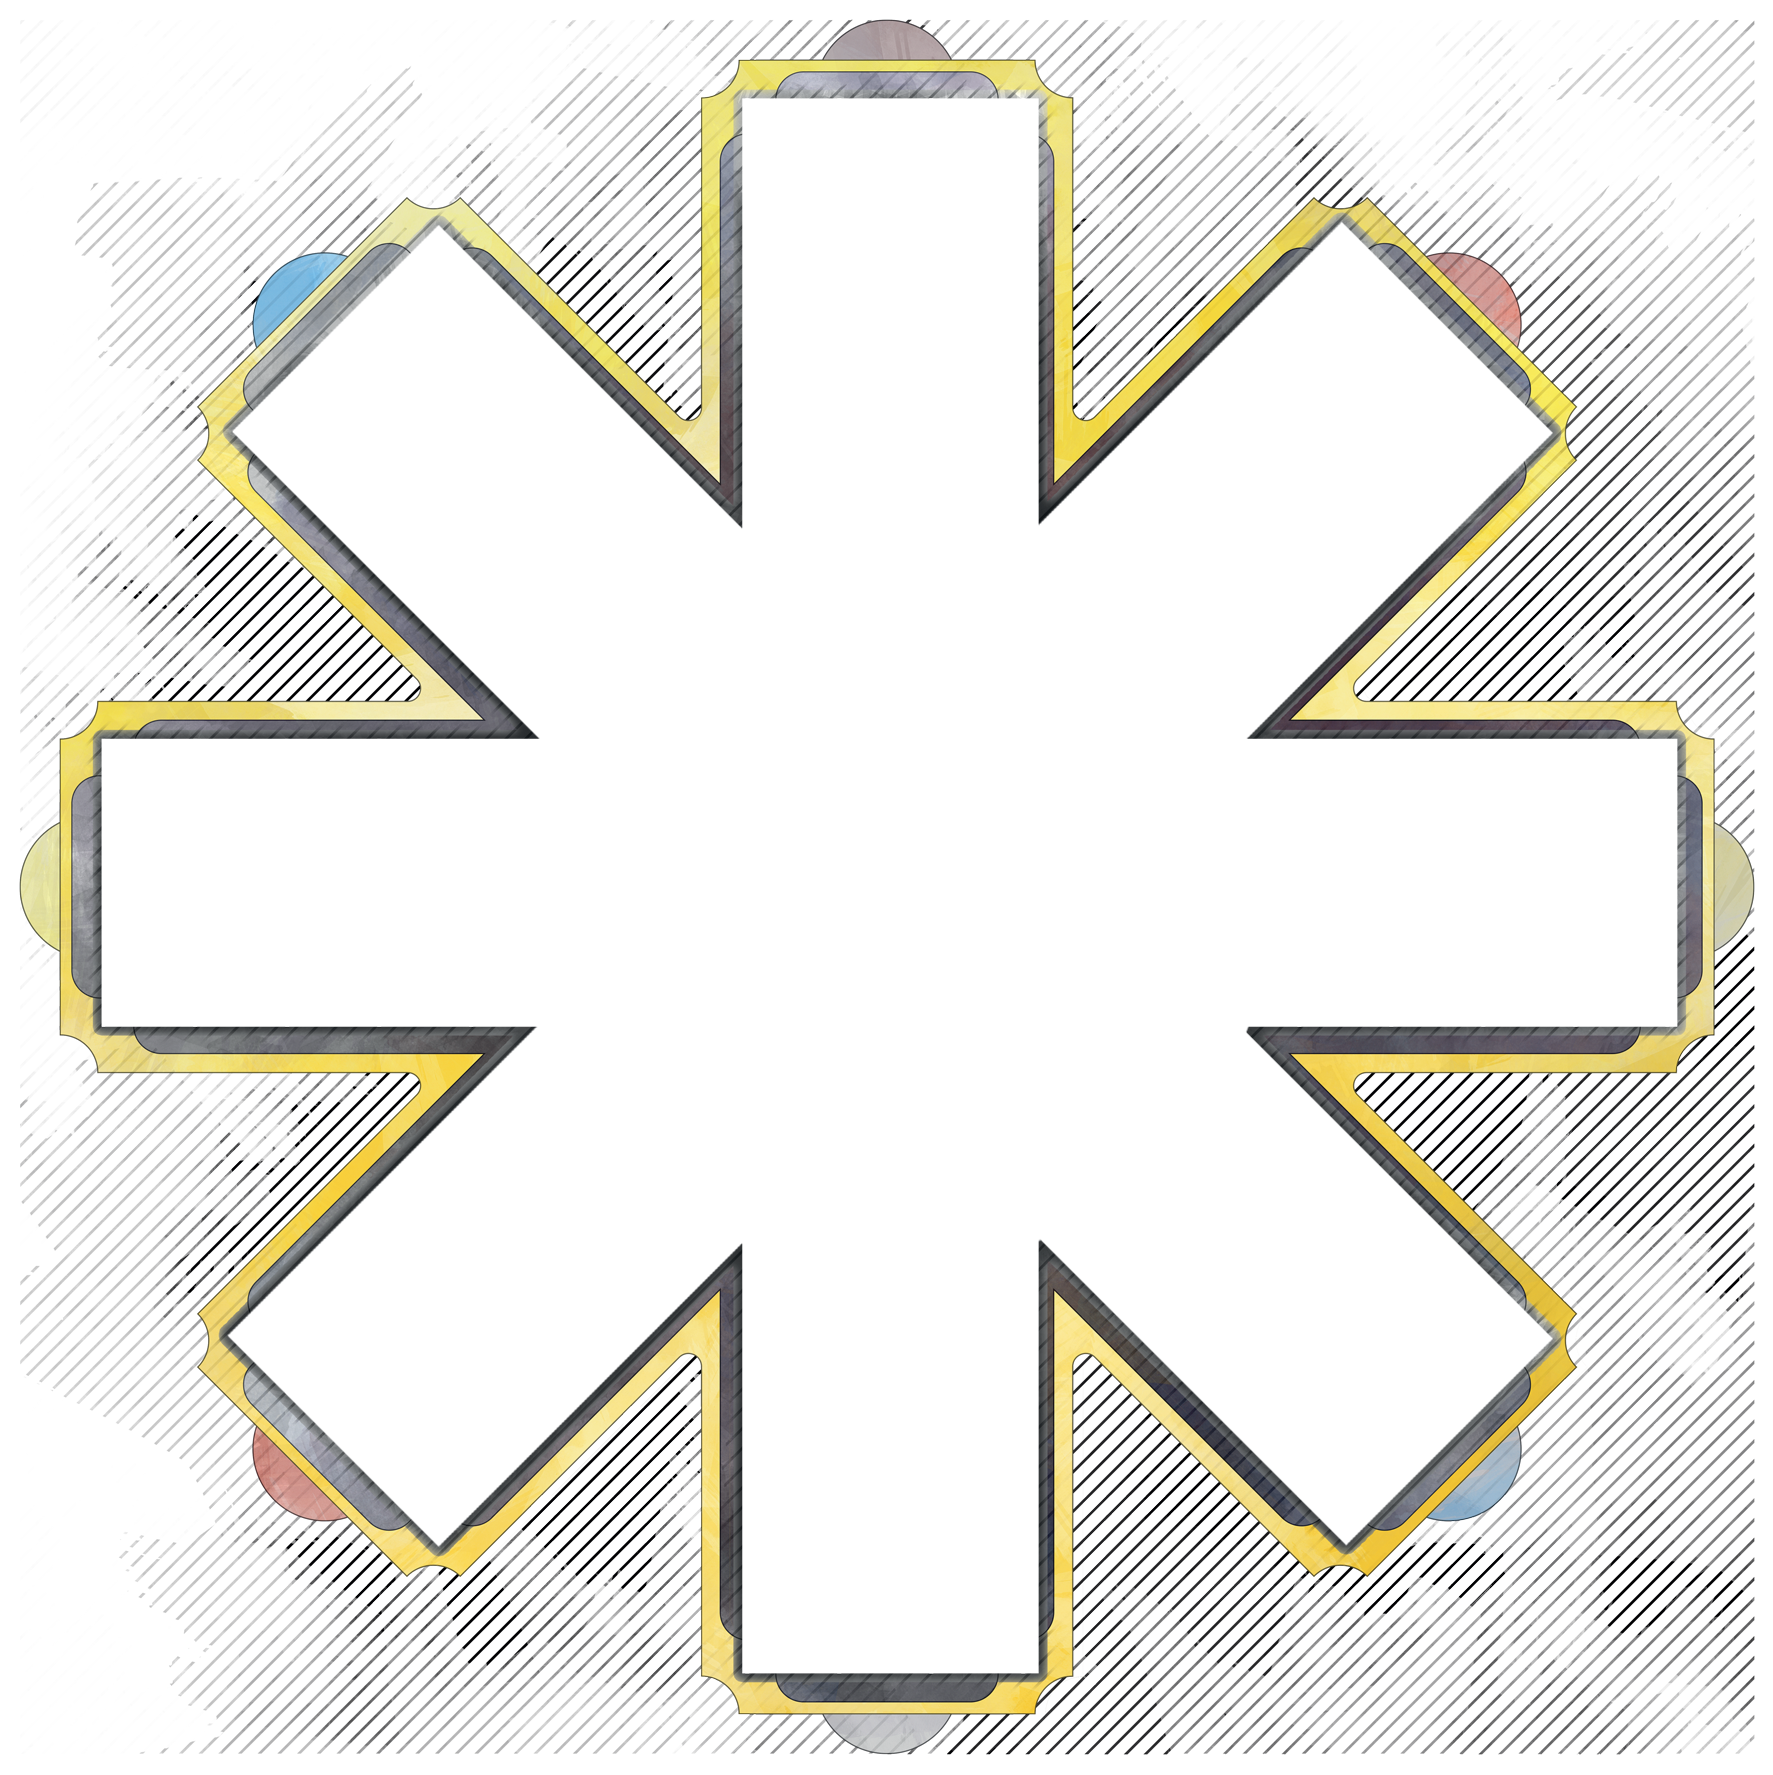
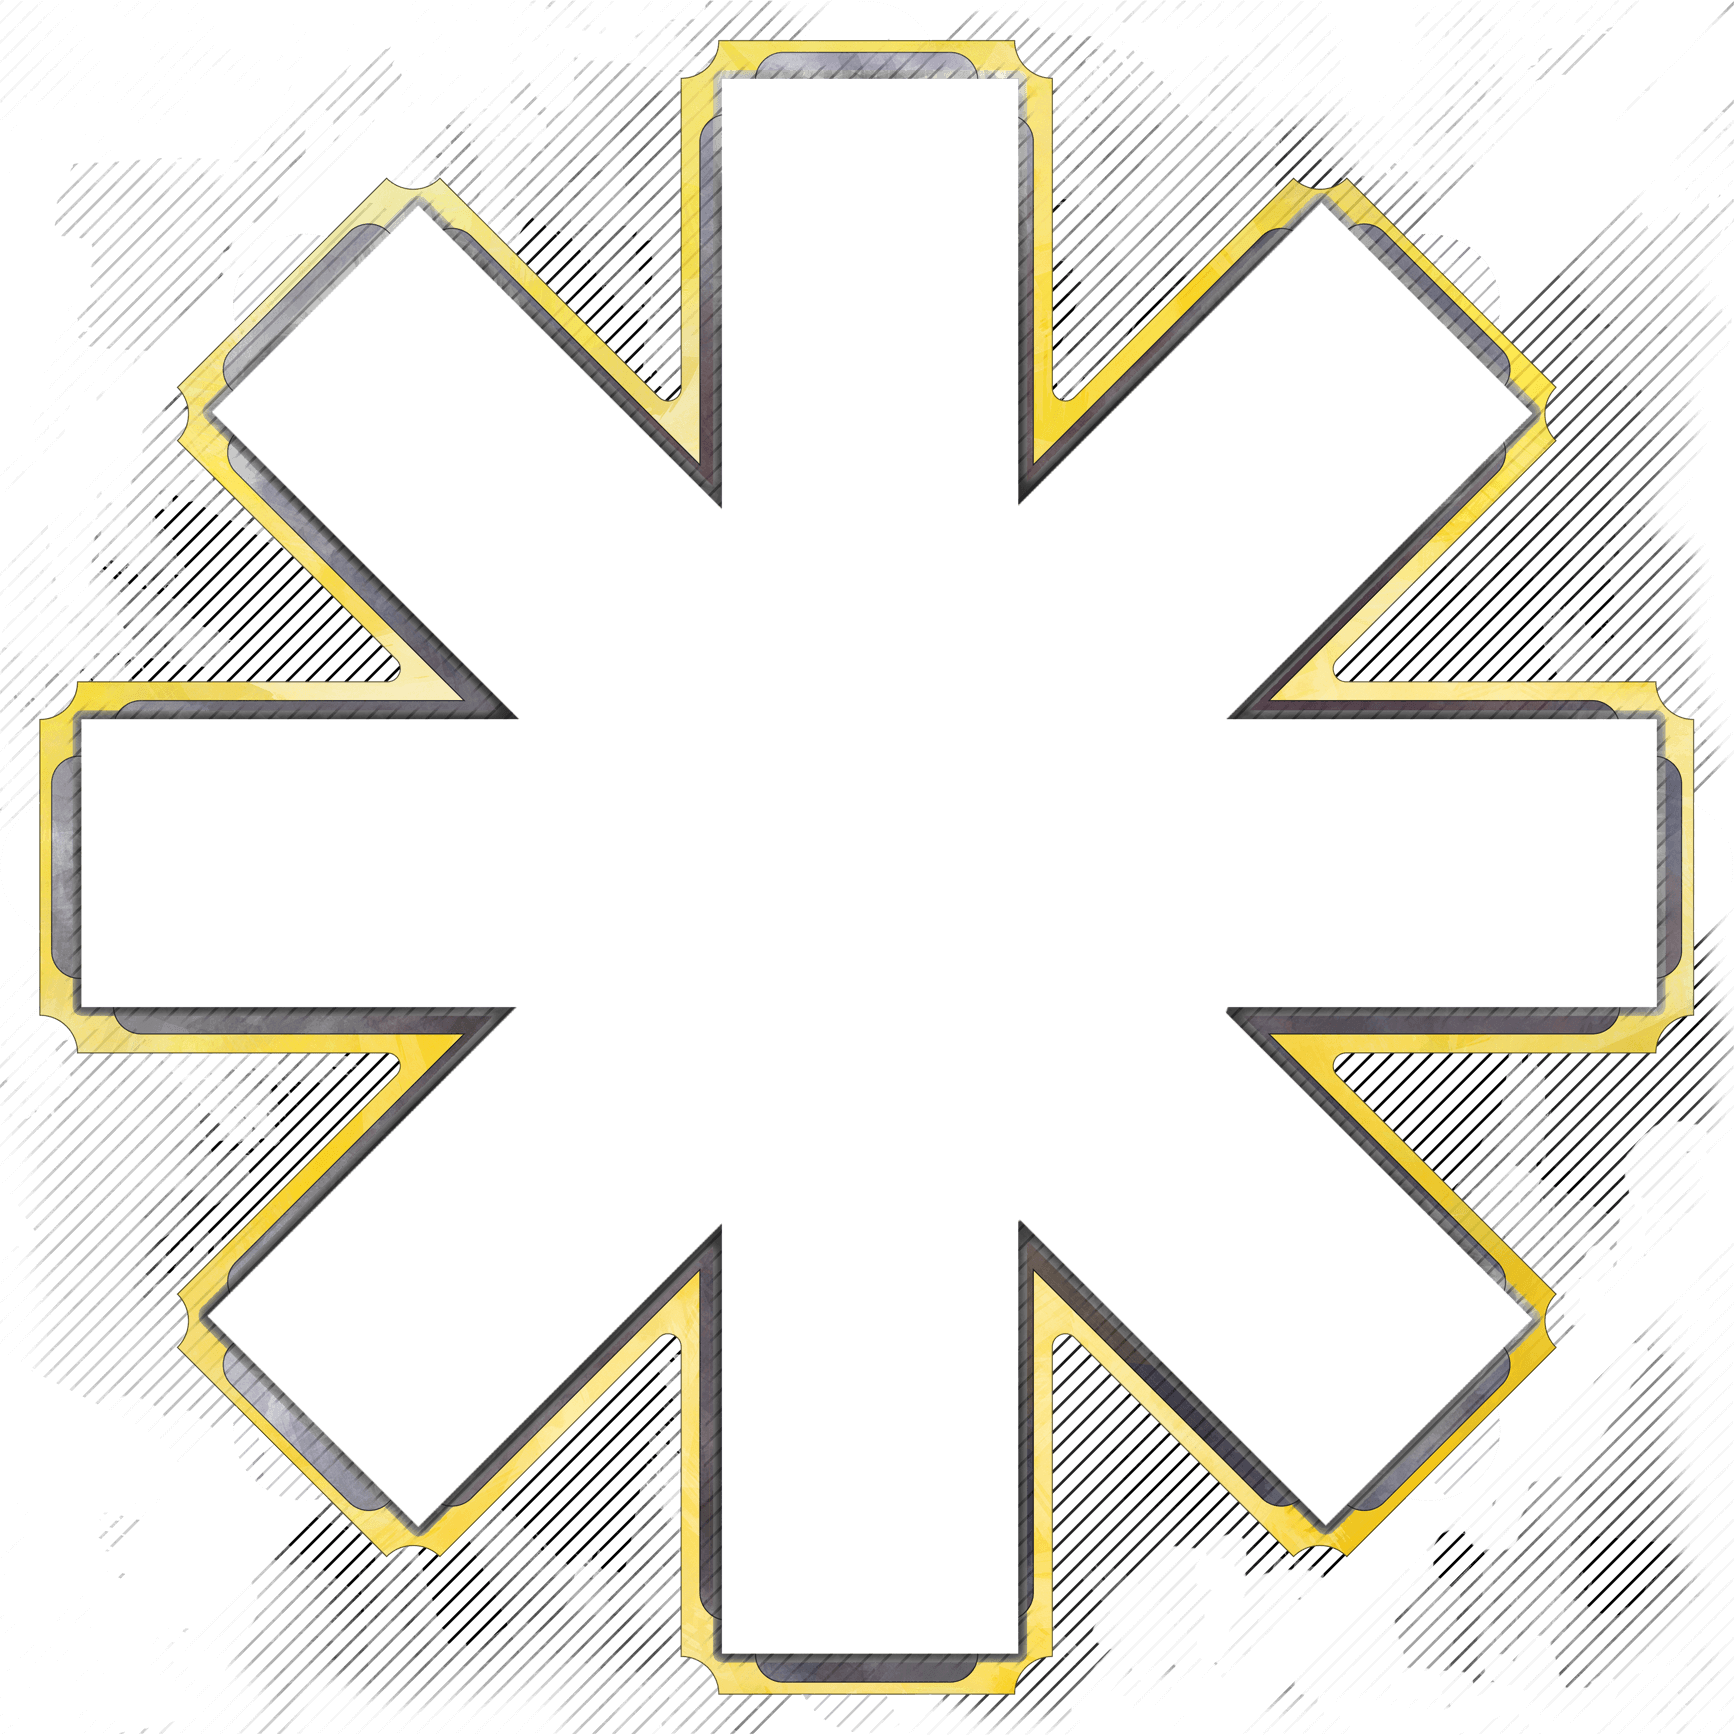
ref(board): use a rezied picture for board outline

Changed region(s): [[0.0, 0.0, 1.0, 1.0], [0.872, 0.0, 0.9965, 0.0622]]

diff --git a/app/game/play/widgets/board/board.html b/app/game/play/widgets/board/board.html
@@ -24,7 +24,7 @@
     <svg xmlns="http://www.w3.org/2000/svg" xmlns:cc="http://creativecommons.org/ns#" xmlns:dc="http://purl.org/dc/elements/1.1/" xmlns:rdf="http://www.w3.org/1999/02/22-rdf-syntax-ns#" xmlns:xlink="http://www.w3.org/1999/xlink" id="board" version="1.1" width="100%" height="100%" viewBox="0 0 2075 2075" preserveAspectRatio="xMidYMid meet">
         <g id="boardBackground">
             <image width="100%" height="100%" transform="translate(-640 -640) scale(1.65)" xlink:href="/assets/game/backgrounds/board.png"/>
-            <image width="100%" height="100%" transform="scale(1.05) translate(-45 -45)" xlink:href="/assets/game/backgrounds/board-outline.png"/>
+            <image width="100%" height="100%" xlink:href="/assets/game/backgrounds/board-outline.png"/>
         </g>
 
         <g id="boardLayer" transform="translate(48.592838,51.550212)">
